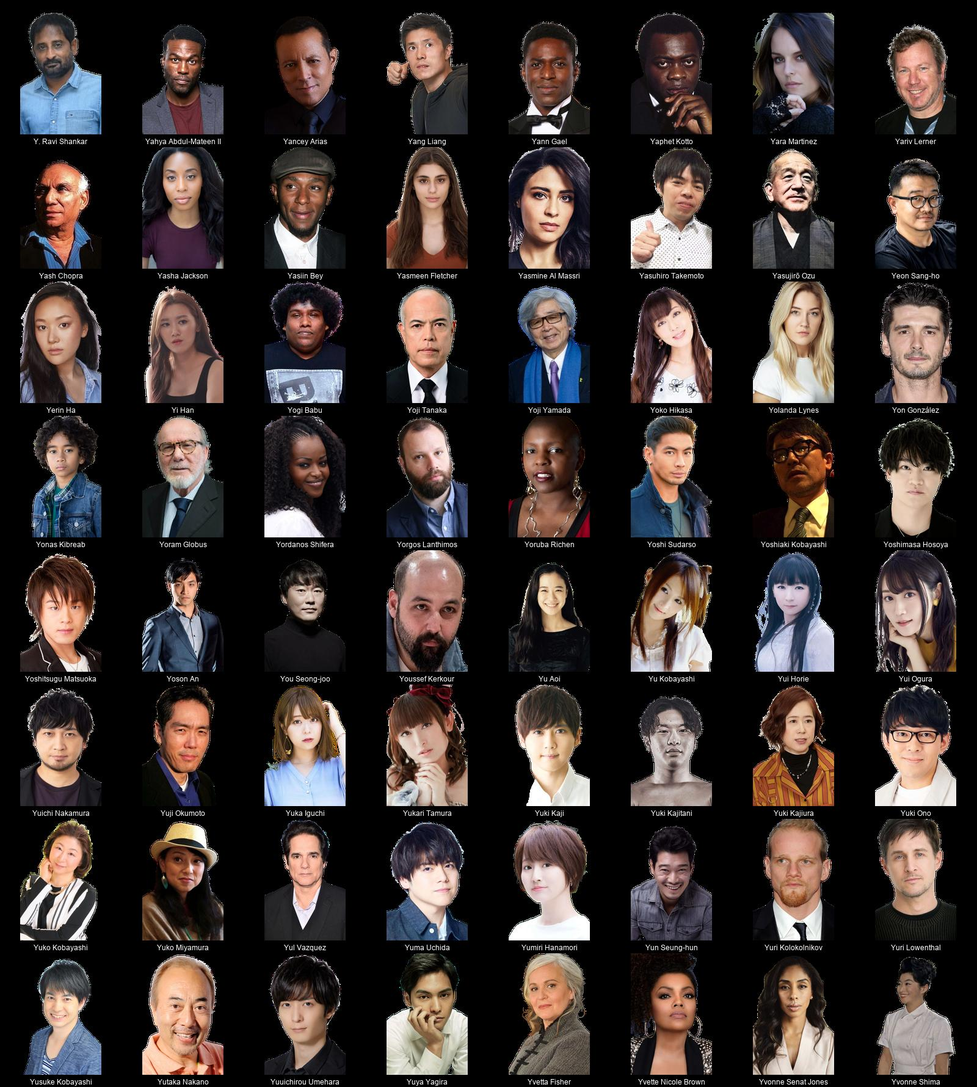
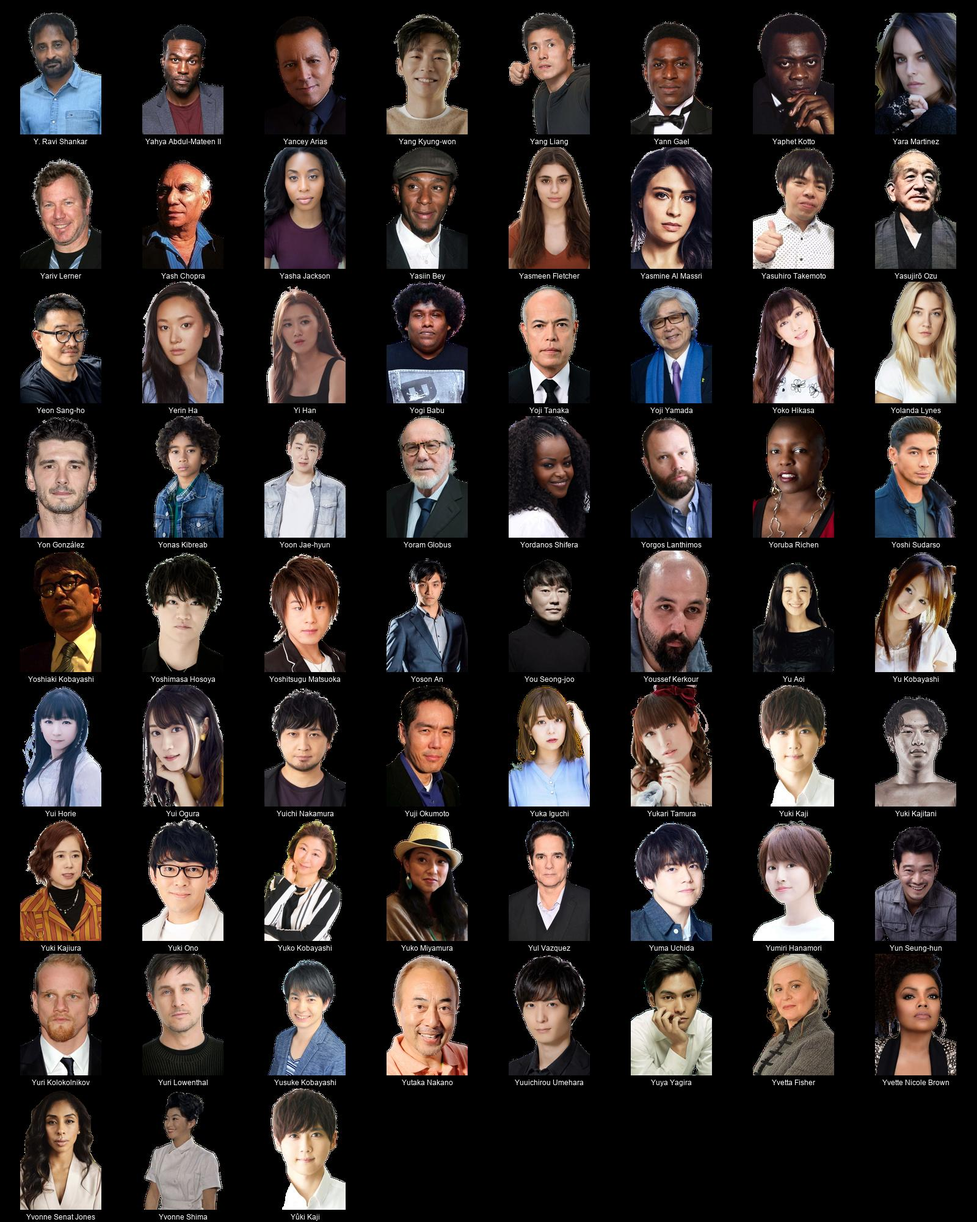
more people

diff --git a/README.md b/README.md
@@ -1,4 +1,4 @@
-# Kometa People Images - Transparent (transparent) (9292 Images)
+# Kometa People Images - Transparent (transparent) (9309 Images)
 
 <details><summary><a href="'">' (1 Images)</a></summary>
 
@@ -7824,7 +7824,7 @@
 * [Ryunosuke Kamiki](https://raw.githubusercontent.com/Kometa-Team/People-Images-transparent/master/R/Images/Ryunosuke%20Kamiki.png)
 * [Ryusuke Hamaguchi](https://raw.githubusercontent.com/Kometa-Team/People-Images-transparent/master/R/Images/Ryusuke%20Hamaguchi.png)
 </details>
-<details><summary><a href="S">S (664 Images)</a></summary>
+<details><summary><a href="S">S (669 Images)</a></summary>
 
 * [S. S. Rajamouli](https://raw.githubusercontent.com/Kometa-Team/People-Images-transparent/master/S/Images/S.%20S.%20Rajamouli.png)
 * [Saagar Shaikh](https://raw.githubusercontent.com/Kometa-Team/People-Images-transparent/master/S/Images/Saagar%20Shaikh.png)
@@ -8234,6 +8234,7 @@
 * [Skeet Ulrich](https://raw.githubusercontent.com/Kometa-Team/People-Images-transparent/master/S/Images/Skeet%20Ulrich.png)
 * [Skip Schwink](https://raw.githubusercontent.com/Kometa-Team/People-Images-transparent/master/S/Images/Skip%20Schwink.png)
 * [Skip Woods](https://raw.githubusercontent.com/Kometa-Team/People-Images-transparent/master/S/Images/Skip%20Woods.png)
+* [Skyler Gisondo](https://raw.githubusercontent.com/Kometa-Team/People-Images-transparent/master/S/Images/Skyler%20Gisondo.png)
 * [Snoop Dogg](https://raw.githubusercontent.com/Kometa-Team/People-Images-transparent/master/S/Images/Snoop%20Dogg.png)
 * [So Yamanaka](https://raw.githubusercontent.com/Kometa-Team/People-Images-transparent/master/S/Images/So%20Yamanaka.png)
 * [Sobhita Dhulipala](https://raw.githubusercontent.com/Kometa-Team/People-Images-transparent/master/S/Images/Sobhita%20Dhulipala.png)
@@ -8296,6 +8297,7 @@
 * [Stanley M. Brooks](https://raw.githubusercontent.com/Kometa-Team/People-Images-transparent/master/S/Images/Stanley%20M.%20Brooks.png)
 * [Stanley Sopel](https://raw.githubusercontent.com/Kometa-Team/People-Images-transparent/master/S/Images/Stanley%20Sopel.png)
 * [Stanley Tucci](https://raw.githubusercontent.com/Kometa-Team/People-Images-transparent/master/S/Images/Stanley%20Tucci.png)
+* [Stanley Wong](https://raw.githubusercontent.com/Kometa-Team/People-Images-transparent/master/S/Images/Stanley%20Wong.png)
 * [Stany De Silva](https://raw.githubusercontent.com/Kometa-Team/People-Images-transparent/master/S/Images/Stany%20De%20Silva.png)
 * [Star Slade](https://raw.githubusercontent.com/Kometa-Team/People-Images-transparent/master/S/Images/Star%20Slade.png)
 * [Stef Dawson](https://raw.githubusercontent.com/Kometa-Team/People-Images-transparent/master/S/Images/Stef%20Dawson.png)
@@ -8361,6 +8363,7 @@
 * [Stephen Tobolowsky](https://raw.githubusercontent.com/Kometa-Team/People-Images-transparent/master/S/Images/Stephen%20Tobolowsky.png)
 * [Stephen Tompkinson](https://raw.githubusercontent.com/Kometa-Team/People-Images-transparent/master/S/Images/Stephen%20Tompkinson.png)
 * [Stephen Ure](https://raw.githubusercontent.com/Kometa-Team/People-Images-transparent/master/S/Images/Stephen%20Ure.png)
+* [Stephenie Meyer](https://raw.githubusercontent.com/Kometa-Team/People-Images-transparent/master/S/Images/Stephenie%20Meyer.png)
 * [Sterling Hayden](https://raw.githubusercontent.com/Kometa-Team/People-Images-transparent/master/S/Images/Sterling%20Hayden.png)
 * [Sterling Holloway](https://raw.githubusercontent.com/Kometa-Team/People-Images-transparent/master/S/Images/Sterling%20Holloway.png)
 * [Sterling K. Brown](https://raw.githubusercontent.com/Kometa-Team/People-Images-transparent/master/S/Images/Sterling%20K.%20Brown.png)
@@ -8441,10 +8444,12 @@
 * [Sullivan Stapleton](https://raw.githubusercontent.com/Kometa-Team/People-Images-transparent/master/S/Images/Sullivan%20Stapleton.png)
 * [Sumalee Montano](https://raw.githubusercontent.com/Kometa-Team/People-Images-transparent/master/S/Images/Sumalee%20Montano.png)
 * [Sumire Uesaka](https://raw.githubusercontent.com/Kometa-Team/People-Images-transparent/master/S/Images/Sumire%20Uesaka.png)
+* [Sung Dong-il](https://raw.githubusercontent.com/Kometa-Team/People-Images-transparent/master/S/Images/Sung%20Dong-il.png)
 * [Sung Kang](https://raw.githubusercontent.com/Kometa-Team/People-Images-transparent/master/S/Images/Sung%20Kang.png)
 * [Suniel Shetty](https://raw.githubusercontent.com/Kometa-Team/People-Images-transparent/master/S/Images/Suniel%20Shetty.png)
 * [Sunita Mani](https://raw.githubusercontent.com/Kometa-Team/People-Images-transparent/master/S/Images/Sunita%20Mani.png)
 * [Sunny Deol](https://raw.githubusercontent.com/Kometa-Team/People-Images-transparent/master/S/Images/Sunny%20Deol.png)
+* [Sunnyi Melles](https://raw.githubusercontent.com/Kometa-Team/People-Images-transparent/master/S/Images/Sunnyi%20Melles.png)
 * [Sunshine Sammy Morrison](https://raw.githubusercontent.com/Kometa-Team/People-Images-transparent/master/S/Images/Sunshine%20Sammy%20Morrison.png)
 * [Supriya Shukla](https://raw.githubusercontent.com/Kometa-Team/People-Images-transparent/master/S/Images/Supriya%20Shukla.png)
 * [Suraj Sharma](https://raw.githubusercontent.com/Kometa-Team/People-Images-transparent/master/S/Images/Suraj%20Sharma.png)
@@ -8491,7 +8496,7 @@
 * [Søren Pilmark](https://raw.githubusercontent.com/Kometa-Team/People-Images-transparent/master/S/Images/S%C3%B8ren%20Pilmark.png)
 * [Sō Yamanaka](https://raw.githubusercontent.com/Kometa-Team/People-Images-transparent/master/S/Images/S%C5%8D%20Yamanaka.png)
 </details>
-<details><summary><a href="T">T (446 Images)</a></summary>
+<details><summary><a href="T">T (451 Images)</a></summary>
 
 * [T. J. Miller](https://raw.githubusercontent.com/Kometa-Team/People-Images-transparent/master/T/Images/T.%20J.%20Miller.png)
 * [T. Love](https://raw.githubusercontent.com/Kometa-Team/People-Images-transparent/master/T/Images/T.%20Love.png)
@@ -8508,6 +8513,7 @@
 * [Takashi Miike](https://raw.githubusercontent.com/Kometa-Team/People-Images-transparent/master/T/Images/Takashi%20Miike.png)
 * [Takehito Koyasu](https://raw.githubusercontent.com/Kometa-Team/People-Images-transparent/master/T/Images/Takehito%20Koyasu.png)
 * [Takeshi Kitano](https://raw.githubusercontent.com/Kometa-Team/People-Images-transparent/master/T/Images/Takeshi%20Kitano.png)
+* [Takeshi Kusao](https://raw.githubusercontent.com/Kometa-Team/People-Images-transparent/master/T/Images/Takeshi%20Kusao.png)
 * [Taku Yashiro](https://raw.githubusercontent.com/Kometa-Team/People-Images-transparent/master/T/Images/Taku%20Yashiro.png)
 * [Talia Shire](https://raw.githubusercontent.com/Kometa-Team/People-Images-transparent/master/T/Images/Talia%20Shire.png)
 * [Talisa Soto](https://raw.githubusercontent.com/Kometa-Team/People-Images-transparent/master/T/Images/Talisa%20Soto.png)
@@ -8661,6 +8667,7 @@
 * [Thure Lindhardt](https://raw.githubusercontent.com/Kometa-Team/People-Images-transparent/master/T/Images/Thure%20Lindhardt.png)
 * [Thurl Ravenscroft](https://raw.githubusercontent.com/Kometa-Team/People-Images-transparent/master/T/Images/Thurl%20Ravenscroft.png)
 * [Thusitha Jayasundera](https://raw.githubusercontent.com/Kometa-Team/People-Images-transparent/master/T/Images/Thusitha%20Jayasundera.png)
+* [Théodore Pellerin](https://raw.githubusercontent.com/Kometa-Team/People-Images-transparent/master/T/Images/Th%C3%A9odore%20Pellerin.png)
 * [Ti West](https://raw.githubusercontent.com/Kometa-Team/People-Images-transparent/master/T/Images/Ti%20West.png)
 * [Tiffany Denise Hobbs](https://raw.githubusercontent.com/Kometa-Team/People-Images-transparent/master/T/Images/Tiffany%20Denise%20Hobbs.png)
 * [Tiffany Espensen](https://raw.githubusercontent.com/Kometa-Team/People-Images-transparent/master/T/Images/Tiffany%20Espensen.png)
@@ -8670,6 +8677,7 @@
 * [Tika Sumpter](https://raw.githubusercontent.com/Kometa-Team/People-Images-transparent/master/T/Images/Tika%20Sumpter.png)
 * [Tilda Swinton](https://raw.githubusercontent.com/Kometa-Team/People-Images-transparent/master/T/Images/Tilda%20Swinton.png)
 * [Tim Allen](https://raw.githubusercontent.com/Kometa-Team/People-Images-transparent/master/T/Images/Tim%20Allen.png)
+* [Tim Baltz](https://raw.githubusercontent.com/Kometa-Team/People-Images-transparent/master/T/Images/Tim%20Baltz.png)
 * [Tim Bevan](https://raw.githubusercontent.com/Kometa-Team/People-Images-transparent/master/T/Images/Tim%20Bevan.png)
 * [Tim Blake Nelson](https://raw.githubusercontent.com/Kometa-Team/People-Images-transparent/master/T/Images/Tim%20Blake%20Nelson.png)
 * [Tim Booth](https://raw.githubusercontent.com/Kometa-Team/People-Images-transparent/master/T/Images/Tim%20Booth.png)
@@ -8804,6 +8812,7 @@
 * [Tom Six](https://raw.githubusercontent.com/Kometa-Team/People-Images-transparent/master/T/Images/Tom%20Six.png)
 * [Tom Sizemore](https://raw.githubusercontent.com/Kometa-Team/People-Images-transparent/master/T/Images/Tom%20Sizemore.png)
 * [Tom Skerritt](https://raw.githubusercontent.com/Kometa-Team/People-Images-transparent/master/T/Images/Tom%20Skerritt.png)
+* [Tom Stourton](https://raw.githubusercontent.com/Kometa-Team/People-Images-transparent/master/T/Images/Tom%20Stourton.png)
 * [Tom Turner](https://raw.githubusercontent.com/Kometa-Team/People-Images-transparent/master/T/Images/Tom%20Turner.png)
 * [Tom Tykwer](https://raw.githubusercontent.com/Kometa-Team/People-Images-transparent/master/T/Images/Tom%20Tykwer.png)
 * [Tom Vaughan-Lawlor](https://raw.githubusercontent.com/Kometa-Team/People-Images-transparent/master/T/Images/Tom%20Vaughan-Lawlor.png)
@@ -8824,6 +8833,7 @@
 * [Tommy French](https://raw.githubusercontent.com/Kometa-Team/People-Images-transparent/master/T/Images/Tommy%20French.png)
 * [Tommy Henriksen](https://raw.githubusercontent.com/Kometa-Team/People-Images-transparent/master/T/Images/Tommy%20Henriksen.png)
 * [Tommy Lee Jones](https://raw.githubusercontent.com/Kometa-Team/People-Images-transparent/master/T/Images/Tommy%20Lee%20Jones.png)
+* [Tommy Lister Jr.](https://raw.githubusercontent.com/Kometa-Team/People-Images-transparent/master/T/Images/Tommy%20Lister%20Jr..png)
 * [Tommy Little](https://raw.githubusercontent.com/Kometa-Team/People-Images-transparent/master/T/Images/Tommy%20Little.png)
 * [Tommy Wirkola](https://raw.githubusercontent.com/Kometa-Team/People-Images-transparent/master/T/Images/Tommy%20Wirkola.png)
 * [Tomoaki Maeno](https://raw.githubusercontent.com/Kometa-Team/People-Images-transparent/master/T/Images/Tomoaki%20Maeno.png)
@@ -9071,7 +9081,7 @@
 * [Von Lewis](https://raw.githubusercontent.com/Kometa-Team/People-Images-transparent/master/V/Images/Von%20Lewis.png)
 * [Věra Chytilová](https://raw.githubusercontent.com/Kometa-Team/People-Images-transparent/master/V/Images/V%C4%9Bra%20Chytilov%C3%A1.png)
 </details>
-<details><summary><a href="W">W (162 Images)</a></summary>
+<details><summary><a href="W">W (166 Images)</a></summary>
 
 * [W. Bruce Cameron](https://raw.githubusercontent.com/Kometa-Team/People-Images-transparent/master/W/Images/W.%20Bruce%20Cameron.png)
 * [W. Earl Brown](https://raw.githubusercontent.com/Kometa-Team/People-Images-transparent/master/W/Images/W.%20Earl%20Brown.png)
@@ -9091,6 +9101,7 @@
 * [Walter F. Parkes](https://raw.githubusercontent.com/Kometa-Team/People-Images-transparent/master/W/Images/Walter%20F.%20Parkes.png)
 * [Walter Gotell](https://raw.githubusercontent.com/Kometa-Team/People-Images-transparent/master/W/Images/Walter%20Gotell.png)
 * [Walter Hill](https://raw.githubusercontent.com/Kometa-Team/People-Images-transparent/master/W/Images/Walter%20Hill.png)
+* [Walter Koenig](https://raw.githubusercontent.com/Kometa-Team/People-Images-transparent/master/W/Images/Walter%20Koenig.png)
 * [Walter Matthau](https://raw.githubusercontent.com/Kometa-Team/People-Images-transparent/master/W/Images/Walter%20Matthau.png)
 * [Walter Murch](https://raw.githubusercontent.com/Kometa-Team/People-Images-transparent/master/W/Images/Walter%20Murch.png)
 * [Walter Salles](https://raw.githubusercontent.com/Kometa-Team/People-Images-transparent/master/W/Images/Walter%20Salles.png)
@@ -9139,6 +9150,7 @@
 * [Wilhelm von Homburg](https://raw.githubusercontent.com/Kometa-Team/People-Images-transparent/master/W/Images/Wilhelm%20von%20Homburg.png)
 * [Will Arnett](https://raw.githubusercontent.com/Kometa-Team/People-Images-transparent/master/W/Images/Will%20Arnett.png)
 * [Will Austin](https://raw.githubusercontent.com/Kometa-Team/People-Images-transparent/master/W/Images/Will%20Austin.png)
+* [Will Beall](https://raw.githubusercontent.com/Kometa-Team/People-Images-transparent/master/W/Images/Will%20Beall.png)
 * [Will Ferrell](https://raw.githubusercontent.com/Kometa-Team/People-Images-transparent/master/W/Images/Will%20Ferrell.png)
 * [Will Fletcher](https://raw.githubusercontent.com/Kometa-Team/People-Images-transparent/master/W/Images/Will%20Fletcher.png)
 * [Will Forte](https://raw.githubusercontent.com/Kometa-Team/People-Images-transparent/master/W/Images/Will%20Forte.png)
@@ -9152,6 +9164,7 @@
 * [Will Poulter](https://raw.githubusercontent.com/Kometa-Team/People-Images-transparent/master/W/Images/Will%20Poulter.png)
 * [Will Pullen](https://raw.githubusercontent.com/Kometa-Team/People-Images-transparent/master/W/Images/Will%20Pullen.png)
 * [Will Rothhaar](https://raw.githubusercontent.com/Kometa-Team/People-Images-transparent/master/W/Images/Will%20Rothhaar.png)
+* [Will Sanderson](https://raw.githubusercontent.com/Kometa-Team/People-Images-transparent/master/W/Images/Will%20Sanderson.png)
 * [Will Sasso](https://raw.githubusercontent.com/Kometa-Team/People-Images-transparent/master/W/Images/Will%20Sasso.png)
 * [Will Smith](https://raw.githubusercontent.com/Kometa-Team/People-Images-transparent/master/W/Images/Will%20Smith.png)
 * [Will Yun Lee](https://raw.githubusercontent.com/Kometa-Team/People-Images-transparent/master/W/Images/Will%20Yun%20Lee.png)
@@ -9225,6 +9238,7 @@
 * [Wolfgang Reitherman](https://raw.githubusercontent.com/Kometa-Team/People-Images-transparent/master/W/Images/Wolfgang%20Reitherman.png)
 * [Wolfman Jack](https://raw.githubusercontent.com/Kometa-Team/People-Images-transparent/master/W/Images/Wolfman%20Jack.png)
 * [Wong Kar-wai](https://raw.githubusercontent.com/Kometa-Team/People-Images-transparent/master/W/Images/Wong%20Kar-wai.png)
+* [Woo Do-hwan](https://raw.githubusercontent.com/Kometa-Team/People-Images-transparent/master/W/Images/Woo%20Do-hwan.png)
 * [Wood Harris](https://raw.githubusercontent.com/Kometa-Team/People-Images-transparent/master/W/Images/Wood%20Harris.png)
 * [Woody Allen](https://raw.githubusercontent.com/Kometa-Team/People-Images-transparent/master/W/Images/Woody%20Allen.png)
 * [Woody Harrelson](https://raw.githubusercontent.com/Kometa-Team/People-Images-transparent/master/W/Images/Woody%20Harrelson.png)
@@ -9244,11 +9258,12 @@
 * [Xochitl Gomez](https://raw.githubusercontent.com/Kometa-Team/People-Images-transparent/master/X/Images/Xochitl%20Gomez.png)
 * [Xolo Mariduena](https://raw.githubusercontent.com/Kometa-Team/People-Images-transparent/master/X/Images/Xolo%20Mariduena.png)
 </details>
-<details><summary><a href="Y">Y (64 Images)</a></summary>
+<details><summary><a href="Y">Y (67 Images)</a></summary>
 
 * [Y. Ravi Shankar](https://raw.githubusercontent.com/Kometa-Team/People-Images-transparent/master/Y/Images/Y.%20Ravi%20Shankar.png)
 * [Yahya Abdul-Mateen II](https://raw.githubusercontent.com/Kometa-Team/People-Images-transparent/master/Y/Images/Yahya%20Abdul-Mateen%20II.png)
 * [Yancey Arias](https://raw.githubusercontent.com/Kometa-Team/People-Images-transparent/master/Y/Images/Yancey%20Arias.png)
+* [Yang Kyung-won](https://raw.githubusercontent.com/Kometa-Team/People-Images-transparent/master/Y/Images/Yang%20Kyung-won.png)
 * [Yang Liang](https://raw.githubusercontent.com/Kometa-Team/People-Images-transparent/master/Y/Images/Yang%20Liang.png)
 * [Yann Gael](https://raw.githubusercontent.com/Kometa-Team/People-Images-transparent/master/Y/Images/Yann%20Gael.png)
 * [Yaphet Kotto](https://raw.githubusercontent.com/Kometa-Team/People-Images-transparent/master/Y/Images/Yaphet%20Kotto.png)
@@ -9271,6 +9286,7 @@
 * [Yolanda Lynes](https://raw.githubusercontent.com/Kometa-Team/People-Images-transparent/master/Y/Images/Yolanda%20Lynes.png)
 * [Yon González](https://raw.githubusercontent.com/Kometa-Team/People-Images-transparent/master/Y/Images/Yon%20Gonz%C3%A1lez.png)
 * [Yonas Kibreab](https://raw.githubusercontent.com/Kometa-Team/People-Images-transparent/master/Y/Images/Yonas%20Kibreab.png)
+* [Yoon Jae-hyun](https://raw.githubusercontent.com/Kometa-Team/People-Images-transparent/master/Y/Images/Yoon%20Jae-hyun.png)
 * [Yoram Globus](https://raw.githubusercontent.com/Kometa-Team/People-Images-transparent/master/Y/Images/Yoram%20Globus.png)
 * [Yordanos Shifera](https://raw.githubusercontent.com/Kometa-Team/People-Images-transparent/master/Y/Images/Yordanos%20Shifera.png)
 * [Yorgos Lanthimos](https://raw.githubusercontent.com/Kometa-Team/People-Images-transparent/master/Y/Images/Yorgos%20Lanthimos.png)
@@ -9310,6 +9326,7 @@
 * [Yvette Nicole Brown](https://raw.githubusercontent.com/Kometa-Team/People-Images-transparent/master/Y/Images/Yvette%20Nicole%20Brown.png)
 * [Yvonne Senat Jones](https://raw.githubusercontent.com/Kometa-Team/People-Images-transparent/master/Y/Images/Yvonne%20Senat%20Jones.png)
 * [Yvonne Shima](https://raw.githubusercontent.com/Kometa-Team/People-Images-transparent/master/Y/Images/Yvonne%20Shima.png)
+* [Yûki Kaji](https://raw.githubusercontent.com/Kometa-Team/People-Images-transparent/master/Y/Images/Y%C3%BBki%20Kaji.png)
 </details>
 <details><summary><a href="Z">Z (50 Images)</a></summary>
 

diff --git a/T/README.md b/T/README.md
@@ -1,4 +1,4 @@
-# Kometa People Images - Transparent (transparent) - T (446 Images)
+# Kometa People Images - Transparent (transparent) - T (451 Images)
 ![Grid](grid.jpg)
 
 * [T. J. Miller](https://raw.githubusercontent.com/Kometa-Team/People-Images-transparent/master/T/Images/T.%20J.%20Miller.png)
@@ -16,6 +16,7 @@
 * [Takashi Miike](https://raw.githubusercontent.com/Kometa-Team/People-Images-transparent/master/T/Images/Takashi%20Miike.png)
 * [Takehito Koyasu](https://raw.githubusercontent.com/Kometa-Team/People-Images-transparent/master/T/Images/Takehito%20Koyasu.png)
 * [Takeshi Kitano](https://raw.githubusercontent.com/Kometa-Team/People-Images-transparent/master/T/Images/Takeshi%20Kitano.png)
+* [Takeshi Kusao](https://raw.githubusercontent.com/Kometa-Team/People-Images-transparent/master/T/Images/Takeshi%20Kusao.png)
 * [Taku Yashiro](https://raw.githubusercontent.com/Kometa-Team/People-Images-transparent/master/T/Images/Taku%20Yashiro.png)
 * [Talia Shire](https://raw.githubusercontent.com/Kometa-Team/People-Images-transparent/master/T/Images/Talia%20Shire.png)
 * [Talisa Soto](https://raw.githubusercontent.com/Kometa-Team/People-Images-transparent/master/T/Images/Talisa%20Soto.png)
@@ -169,6 +170,7 @@
 * [Thure Lindhardt](https://raw.githubusercontent.com/Kometa-Team/People-Images-transparent/master/T/Images/Thure%20Lindhardt.png)
 * [Thurl Ravenscroft](https://raw.githubusercontent.com/Kometa-Team/People-Images-transparent/master/T/Images/Thurl%20Ravenscroft.png)
 * [Thusitha Jayasundera](https://raw.githubusercontent.com/Kometa-Team/People-Images-transparent/master/T/Images/Thusitha%20Jayasundera.png)
+* [Théodore Pellerin](https://raw.githubusercontent.com/Kometa-Team/People-Images-transparent/master/T/Images/Th%C3%A9odore%20Pellerin.png)
 * [Ti West](https://raw.githubusercontent.com/Kometa-Team/People-Images-transparent/master/T/Images/Ti%20West.png)
 * [Tiffany Denise Hobbs](https://raw.githubusercontent.com/Kometa-Team/People-Images-transparent/master/T/Images/Tiffany%20Denise%20Hobbs.png)
 * [Tiffany Espensen](https://raw.githubusercontent.com/Kometa-Team/People-Images-transparent/master/T/Images/Tiffany%20Espensen.png)
@@ -178,6 +180,7 @@
 * [Tika Sumpter](https://raw.githubusercontent.com/Kometa-Team/People-Images-transparent/master/T/Images/Tika%20Sumpter.png)
 * [Tilda Swinton](https://raw.githubusercontent.com/Kometa-Team/People-Images-transparent/master/T/Images/Tilda%20Swinton.png)
 * [Tim Allen](https://raw.githubusercontent.com/Kometa-Team/People-Images-transparent/master/T/Images/Tim%20Allen.png)
+* [Tim Baltz](https://raw.githubusercontent.com/Kometa-Team/People-Images-transparent/master/T/Images/Tim%20Baltz.png)
 * [Tim Bevan](https://raw.githubusercontent.com/Kometa-Team/People-Images-transparent/master/T/Images/Tim%20Bevan.png)
 * [Tim Blake Nelson](https://raw.githubusercontent.com/Kometa-Team/People-Images-transparent/master/T/Images/Tim%20Blake%20Nelson.png)
 * [Tim Booth](https://raw.githubusercontent.com/Kometa-Team/People-Images-transparent/master/T/Images/Tim%20Booth.png)
@@ -312,6 +315,7 @@
 * [Tom Six](https://raw.githubusercontent.com/Kometa-Team/People-Images-transparent/master/T/Images/Tom%20Six.png)
 * [Tom Sizemore](https://raw.githubusercontent.com/Kometa-Team/People-Images-transparent/master/T/Images/Tom%20Sizemore.png)
 * [Tom Skerritt](https://raw.githubusercontent.com/Kometa-Team/People-Images-transparent/master/T/Images/Tom%20Skerritt.png)
+* [Tom Stourton](https://raw.githubusercontent.com/Kometa-Team/People-Images-transparent/master/T/Images/Tom%20Stourton.png)
 * [Tom Turner](https://raw.githubusercontent.com/Kometa-Team/People-Images-transparent/master/T/Images/Tom%20Turner.png)
 * [Tom Tykwer](https://raw.githubusercontent.com/Kometa-Team/People-Images-transparent/master/T/Images/Tom%20Tykwer.png)
 * [Tom Vaughan-Lawlor](https://raw.githubusercontent.com/Kometa-Team/People-Images-transparent/master/T/Images/Tom%20Vaughan-Lawlor.png)
@@ -332,6 +336,7 @@
 * [Tommy French](https://raw.githubusercontent.com/Kometa-Team/People-Images-transparent/master/T/Images/Tommy%20French.png)
 * [Tommy Henriksen](https://raw.githubusercontent.com/Kometa-Team/People-Images-transparent/master/T/Images/Tommy%20Henriksen.png)
 * [Tommy Lee Jones](https://raw.githubusercontent.com/Kometa-Team/People-Images-transparent/master/T/Images/Tommy%20Lee%20Jones.png)
+* [Tommy Lister Jr.](https://raw.githubusercontent.com/Kometa-Team/People-Images-transparent/master/T/Images/Tommy%20Lister%20Jr..png)
 * [Tommy Little](https://raw.githubusercontent.com/Kometa-Team/People-Images-transparent/master/T/Images/Tommy%20Little.png)
 * [Tommy Wirkola](https://raw.githubusercontent.com/Kometa-Team/People-Images-transparent/master/T/Images/Tommy%20Wirkola.png)
 * [Tomoaki Maeno](https://raw.githubusercontent.com/Kometa-Team/People-Images-transparent/master/T/Images/Tomoaki%20Maeno.png)

diff --git a/S/README.md b/S/README.md
@@ -1,4 +1,4 @@
-# Kometa People Images - Transparent (transparent) - S (664 Images)
+# Kometa People Images - Transparent (transparent) - S (669 Images)
 ![Grid](grid.jpg)
 
 * [S. S. Rajamouli](https://raw.githubusercontent.com/Kometa-Team/People-Images-transparent/master/S/Images/S.%20S.%20Rajamouli.png)
@@ -409,6 +409,7 @@
 * [Skeet Ulrich](https://raw.githubusercontent.com/Kometa-Team/People-Images-transparent/master/S/Images/Skeet%20Ulrich.png)
 * [Skip Schwink](https://raw.githubusercontent.com/Kometa-Team/People-Images-transparent/master/S/Images/Skip%20Schwink.png)
 * [Skip Woods](https://raw.githubusercontent.com/Kometa-Team/People-Images-transparent/master/S/Images/Skip%20Woods.png)
+* [Skyler Gisondo](https://raw.githubusercontent.com/Kometa-Team/People-Images-transparent/master/S/Images/Skyler%20Gisondo.png)
 * [Snoop Dogg](https://raw.githubusercontent.com/Kometa-Team/People-Images-transparent/master/S/Images/Snoop%20Dogg.png)
 * [So Yamanaka](https://raw.githubusercontent.com/Kometa-Team/People-Images-transparent/master/S/Images/So%20Yamanaka.png)
 * [Sobhita Dhulipala](https://raw.githubusercontent.com/Kometa-Team/People-Images-transparent/master/S/Images/Sobhita%20Dhulipala.png)
@@ -471,6 +472,7 @@
 * [Stanley M. Brooks](https://raw.githubusercontent.com/Kometa-Team/People-Images-transparent/master/S/Images/Stanley%20M.%20Brooks.png)
 * [Stanley Sopel](https://raw.githubusercontent.com/Kometa-Team/People-Images-transparent/master/S/Images/Stanley%20Sopel.png)
 * [Stanley Tucci](https://raw.githubusercontent.com/Kometa-Team/People-Images-transparent/master/S/Images/Stanley%20Tucci.png)
+* [Stanley Wong](https://raw.githubusercontent.com/Kometa-Team/People-Images-transparent/master/S/Images/Stanley%20Wong.png)
 * [Stany De Silva](https://raw.githubusercontent.com/Kometa-Team/People-Images-transparent/master/S/Images/Stany%20De%20Silva.png)
 * [Star Slade](https://raw.githubusercontent.com/Kometa-Team/People-Images-transparent/master/S/Images/Star%20Slade.png)
 * [Stef Dawson](https://raw.githubusercontent.com/Kometa-Team/People-Images-transparent/master/S/Images/Stef%20Dawson.png)
@@ -536,6 +538,7 @@
 * [Stephen Tobolowsky](https://raw.githubusercontent.com/Kometa-Team/People-Images-transparent/master/S/Images/Stephen%20Tobolowsky.png)
 * [Stephen Tompkinson](https://raw.githubusercontent.com/Kometa-Team/People-Images-transparent/master/S/Images/Stephen%20Tompkinson.png)
 * [Stephen Ure](https://raw.githubusercontent.com/Kometa-Team/People-Images-transparent/master/S/Images/Stephen%20Ure.png)
+* [Stephenie Meyer](https://raw.githubusercontent.com/Kometa-Team/People-Images-transparent/master/S/Images/Stephenie%20Meyer.png)
 * [Sterling Hayden](https://raw.githubusercontent.com/Kometa-Team/People-Images-transparent/master/S/Images/Sterling%20Hayden.png)
 * [Sterling Holloway](https://raw.githubusercontent.com/Kometa-Team/People-Images-transparent/master/S/Images/Sterling%20Holloway.png)
 * [Sterling K. Brown](https://raw.githubusercontent.com/Kometa-Team/People-Images-transparent/master/S/Images/Sterling%20K.%20Brown.png)
@@ -616,10 +619,12 @@
 * [Sullivan Stapleton](https://raw.githubusercontent.com/Kometa-Team/People-Images-transparent/master/S/Images/Sullivan%20Stapleton.png)
 * [Sumalee Montano](https://raw.githubusercontent.com/Kometa-Team/People-Images-transparent/master/S/Images/Sumalee%20Montano.png)
 * [Sumire Uesaka](https://raw.githubusercontent.com/Kometa-Team/People-Images-transparent/master/S/Images/Sumire%20Uesaka.png)
+* [Sung Dong-il](https://raw.githubusercontent.com/Kometa-Team/People-Images-transparent/master/S/Images/Sung%20Dong-il.png)
 * [Sung Kang](https://raw.githubusercontent.com/Kometa-Team/People-Images-transparent/master/S/Images/Sung%20Kang.png)
 * [Suniel Shetty](https://raw.githubusercontent.com/Kometa-Team/People-Images-transparent/master/S/Images/Suniel%20Shetty.png)
 * [Sunita Mani](https://raw.githubusercontent.com/Kometa-Team/People-Images-transparent/master/S/Images/Sunita%20Mani.png)
 * [Sunny Deol](https://raw.githubusercontent.com/Kometa-Team/People-Images-transparent/master/S/Images/Sunny%20Deol.png)
+* [Sunnyi Melles](https://raw.githubusercontent.com/Kometa-Team/People-Images-transparent/master/S/Images/Sunnyi%20Melles.png)
 * [Sunshine Sammy Morrison](https://raw.githubusercontent.com/Kometa-Team/People-Images-transparent/master/S/Images/Sunshine%20Sammy%20Morrison.png)
 * [Supriya Shukla](https://raw.githubusercontent.com/Kometa-Team/People-Images-transparent/master/S/Images/Supriya%20Shukla.png)
 * [Suraj Sharma](https://raw.githubusercontent.com/Kometa-Team/People-Images-transparent/master/S/Images/Suraj%20Sharma.png)

diff --git a/W/README.md b/W/README.md
@@ -1,4 +1,4 @@
-# Kometa People Images - Transparent (transparent) - W (162 Images)
+# Kometa People Images - Transparent (transparent) - W (166 Images)
 ![Grid](grid.jpg)
 
 * [W. Bruce Cameron](https://raw.githubusercontent.com/Kometa-Team/People-Images-transparent/master/W/Images/W.%20Bruce%20Cameron.png)
@@ -19,6 +19,7 @@
 * [Walter F. Parkes](https://raw.githubusercontent.com/Kometa-Team/People-Images-transparent/master/W/Images/Walter%20F.%20Parkes.png)
 * [Walter Gotell](https://raw.githubusercontent.com/Kometa-Team/People-Images-transparent/master/W/Images/Walter%20Gotell.png)
 * [Walter Hill](https://raw.githubusercontent.com/Kometa-Team/People-Images-transparent/master/W/Images/Walter%20Hill.png)
+* [Walter Koenig](https://raw.githubusercontent.com/Kometa-Team/People-Images-transparent/master/W/Images/Walter%20Koenig.png)
 * [Walter Matthau](https://raw.githubusercontent.com/Kometa-Team/People-Images-transparent/master/W/Images/Walter%20Matthau.png)
 * [Walter Murch](https://raw.githubusercontent.com/Kometa-Team/People-Images-transparent/master/W/Images/Walter%20Murch.png)
 * [Walter Salles](https://raw.githubusercontent.com/Kometa-Team/People-Images-transparent/master/W/Images/Walter%20Salles.png)
@@ -67,6 +68,7 @@
 * [Wilhelm von Homburg](https://raw.githubusercontent.com/Kometa-Team/People-Images-transparent/master/W/Images/Wilhelm%20von%20Homburg.png)
 * [Will Arnett](https://raw.githubusercontent.com/Kometa-Team/People-Images-transparent/master/W/Images/Will%20Arnett.png)
 * [Will Austin](https://raw.githubusercontent.com/Kometa-Team/People-Images-transparent/master/W/Images/Will%20Austin.png)
+* [Will Beall](https://raw.githubusercontent.com/Kometa-Team/People-Images-transparent/master/W/Images/Will%20Beall.png)
 * [Will Ferrell](https://raw.githubusercontent.com/Kometa-Team/People-Images-transparent/master/W/Images/Will%20Ferrell.png)
 * [Will Fletcher](https://raw.githubusercontent.com/Kometa-Team/People-Images-transparent/master/W/Images/Will%20Fletcher.png)
 * [Will Forte](https://raw.githubusercontent.com/Kometa-Team/People-Images-transparent/master/W/Images/Will%20Forte.png)
@@ -80,6 +82,7 @@
 * [Will Poulter](https://raw.githubusercontent.com/Kometa-Team/People-Images-transparent/master/W/Images/Will%20Poulter.png)
 * [Will Pullen](https://raw.githubusercontent.com/Kometa-Team/People-Images-transparent/master/W/Images/Will%20Pullen.png)
 * [Will Rothhaar](https://raw.githubusercontent.com/Kometa-Team/People-Images-transparent/master/W/Images/Will%20Rothhaar.png)
+* [Will Sanderson](https://raw.githubusercontent.com/Kometa-Team/People-Images-transparent/master/W/Images/Will%20Sanderson.png)
 * [Will Sasso](https://raw.githubusercontent.com/Kometa-Team/People-Images-transparent/master/W/Images/Will%20Sasso.png)
 * [Will Smith](https://raw.githubusercontent.com/Kometa-Team/People-Images-transparent/master/W/Images/Will%20Smith.png)
 * [Will Yun Lee](https://raw.githubusercontent.com/Kometa-Team/People-Images-transparent/master/W/Images/Will%20Yun%20Lee.png)
@@ -153,6 +156,7 @@
 * [Wolfgang Reitherman](https://raw.githubusercontent.com/Kometa-Team/People-Images-transparent/master/W/Images/Wolfgang%20Reitherman.png)
 * [Wolfman Jack](https://raw.githubusercontent.com/Kometa-Team/People-Images-transparent/master/W/Images/Wolfman%20Jack.png)
 * [Wong Kar-wai](https://raw.githubusercontent.com/Kometa-Team/People-Images-transparent/master/W/Images/Wong%20Kar-wai.png)
+* [Woo Do-hwan](https://raw.githubusercontent.com/Kometa-Team/People-Images-transparent/master/W/Images/Woo%20Do-hwan.png)
 * [Wood Harris](https://raw.githubusercontent.com/Kometa-Team/People-Images-transparent/master/W/Images/Wood%20Harris.png)
 * [Woody Allen](https://raw.githubusercontent.com/Kometa-Team/People-Images-transparent/master/W/Images/Woody%20Allen.png)
 * [Woody Harrelson](https://raw.githubusercontent.com/Kometa-Team/People-Images-transparent/master/W/Images/Woody%20Harrelson.png)

diff --git a/Y/README.md b/Y/README.md
@@ -1,9 +1,10 @@
-# Kometa People Images - Transparent (transparent) - Y (64 Images)
+# Kometa People Images - Transparent (transparent) - Y (67 Images)
 ![Grid](grid.jpg)
 
 * [Y. Ravi Shankar](https://raw.githubusercontent.com/Kometa-Team/People-Images-transparent/master/Y/Images/Y.%20Ravi%20Shankar.png)
 * [Yahya Abdul-Mateen II](https://raw.githubusercontent.com/Kometa-Team/People-Images-transparent/master/Y/Images/Yahya%20Abdul-Mateen%20II.png)
 * [Yancey Arias](https://raw.githubusercontent.com/Kometa-Team/People-Images-transparent/master/Y/Images/Yancey%20Arias.png)
+* [Yang Kyung-won](https://raw.githubusercontent.com/Kometa-Team/People-Images-transparent/master/Y/Images/Yang%20Kyung-won.png)
 * [Yang Liang](https://raw.githubusercontent.com/Kometa-Team/People-Images-transparent/master/Y/Images/Yang%20Liang.png)
 * [Yann Gael](https://raw.githubusercontent.com/Kometa-Team/People-Images-transparent/master/Y/Images/Yann%20Gael.png)
 * [Yaphet Kotto](https://raw.githubusercontent.com/Kometa-Team/People-Images-transparent/master/Y/Images/Yaphet%20Kotto.png)
@@ -26,6 +27,7 @@
 * [Yolanda Lynes](https://raw.githubusercontent.com/Kometa-Team/People-Images-transparent/master/Y/Images/Yolanda%20Lynes.png)
 * [Yon González](https://raw.githubusercontent.com/Kometa-Team/People-Images-transparent/master/Y/Images/Yon%20Gonz%C3%A1lez.png)
 * [Yonas Kibreab](https://raw.githubusercontent.com/Kometa-Team/People-Images-transparent/master/Y/Images/Yonas%20Kibreab.png)
+* [Yoon Jae-hyun](https://raw.githubusercontent.com/Kometa-Team/People-Images-transparent/master/Y/Images/Yoon%20Jae-hyun.png)
 * [Yoram Globus](https://raw.githubusercontent.com/Kometa-Team/People-Images-transparent/master/Y/Images/Yoram%20Globus.png)
 * [Yordanos Shifera](https://raw.githubusercontent.com/Kometa-Team/People-Images-transparent/master/Y/Images/Yordanos%20Shifera.png)
 * [Yorgos Lanthimos](https://raw.githubusercontent.com/Kometa-Team/People-Images-transparent/master/Y/Images/Yorgos%20Lanthimos.png)
@@ -65,3 +67,4 @@
 * [Yvette Nicole Brown](https://raw.githubusercontent.com/Kometa-Team/People-Images-transparent/master/Y/Images/Yvette%20Nicole%20Brown.png)
 * [Yvonne Senat Jones](https://raw.githubusercontent.com/Kometa-Team/People-Images-transparent/master/Y/Images/Yvonne%20Senat%20Jones.png)
 * [Yvonne Shima](https://raw.githubusercontent.com/Kometa-Team/People-Images-transparent/master/Y/Images/Yvonne%20Shima.png)
+* [Yûki Kaji](https://raw.githubusercontent.com/Kometa-Team/People-Images-transparent/master/Y/Images/Y%C3%BBki%20Kaji.png)
